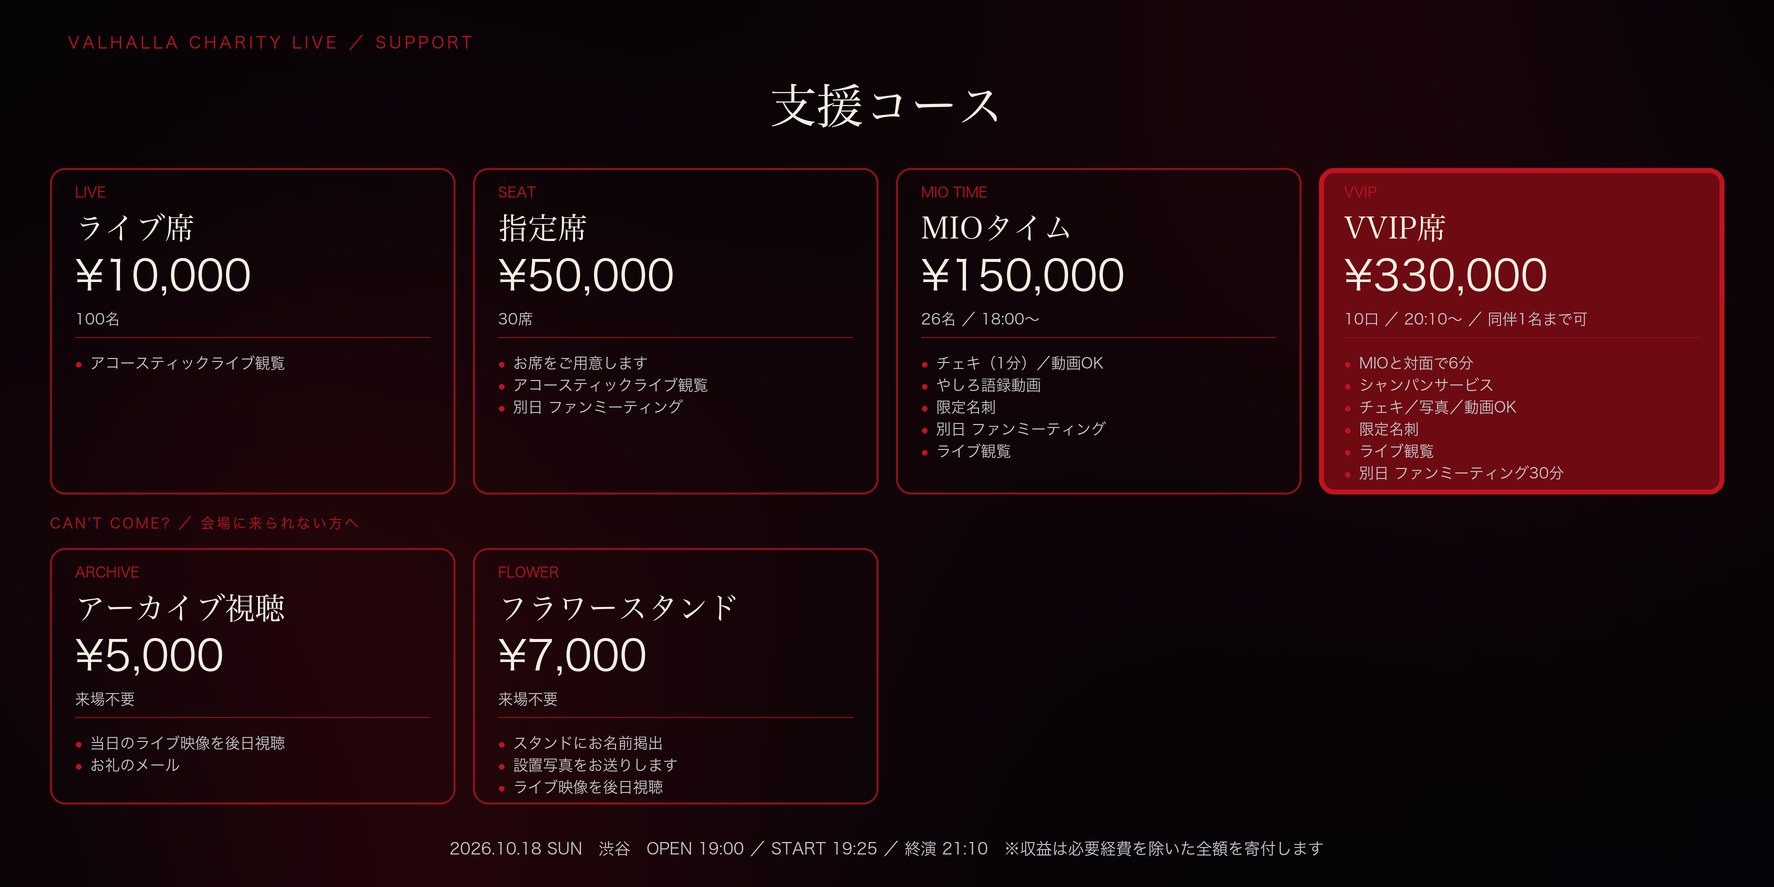
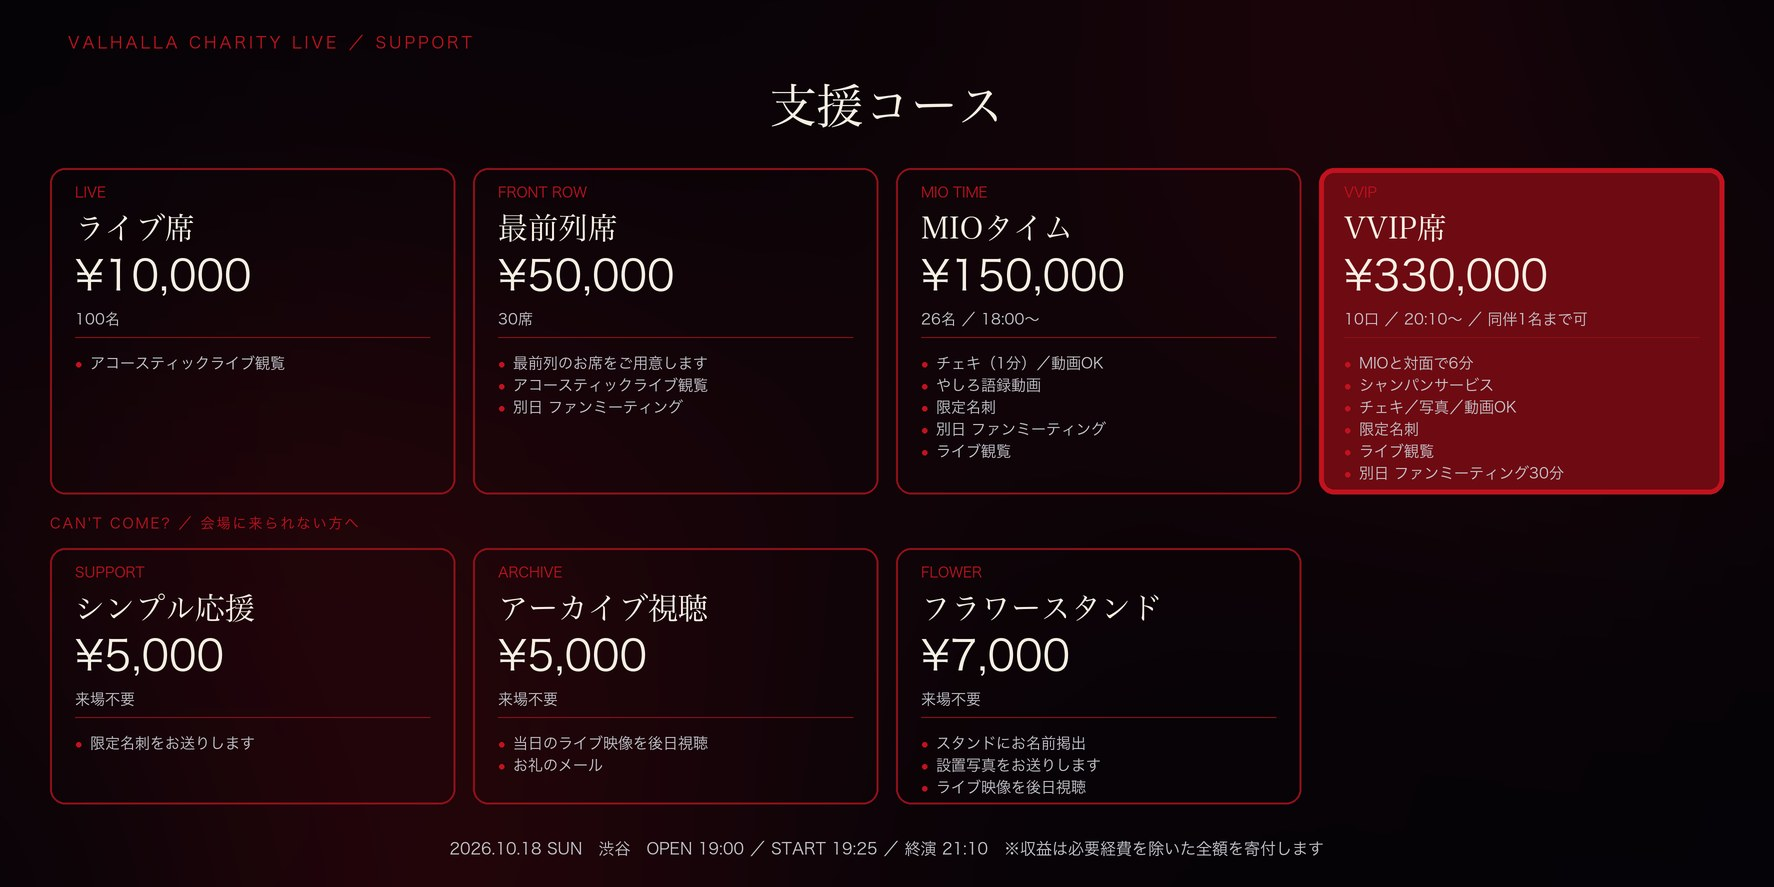
charity: make the 50,000 tier front row and open a 5,000 support plan
The 50,000 seats are the front row, so they say so. Alongside them sits
a new 5,000円 シンプル応援 whose return is the 限定名刺 in the post.

That plan lands on two problems worth deciding before launch: it shares
its price with アーカイブ視聴, and the 限定名刺 it sends is also what
MIOタイム and VVIP list among their perks. Both are written up with the
ways out. The 来場不要 courses now also appear in the page body itself,
where only the banner had carried them.

diff --git a/charity.html b/charity.html
@@ -535,6 +535,16 @@
   <div class="ret">
 
     <div class="r">
+      <div class="rn">シンプル応援</div>
+      <div class="rp">¥5,000</div>
+      <div class="lim">来場不要 ／ 人数制限なし</div>
+      <ul>
+        <li>限定名刺をお送りします</li>
+      </ul>
+      <a class="pay-btn" data-pay="simple">このコースで支援する</a>
+    </div>
+
+    <div class="r">
       <div class="rn">アーカイブ視聴</div>
       <div class="rp">¥5,000</div>
       <div class="lim">来場不要 ／ 人数制限なし</div>
@@ -568,11 +578,12 @@
     </div>
 
     <div class="r">
-      <div class="rn">指定席</div>
+      <div class="rn">最前列席</div>
       <div class="rp">¥50,000</div>
       <div class="lim">30席</div>
       <ul>
-        <li>アコースティックライブ観覧（お席をご用意します）</li>
+        <li>最前列のお席をご用意します</li>
+        <li>アコースティックライブ観覧</li>
         <li>【別日】ファンミーティング（対面・30分のグループセッション）<span class="tbd">【2026年11月・日程調整中】</span></li>
       </ul>
       <a class="pay-btn" data-pay="seat">このコースで支援する</a>
@@ -722,7 +733,8 @@
     archive: "", // アーカイブ視聴
     flower:  "", // フラワースタンド
     live: "",   // ライブ席
-    seat: "",   // 指定席
+    simple: "", // シンプル応援
+    seat: "",   // 最前列席
     mio:  "",   // MIOタイム
     vvip: ""    // VVIP席
   };

diff --git a/assets/charity/create_returns_banner.py b/assets/charity/create_returns_banner.py
@@ -175,8 +175,8 @@ def add_cards(base: Image.Image) -> None:
     cards = (
         ("LIVE", "ライブ席", "¥10,000", "100名",
          ("アコースティックライブ観覧",)),
-        ("SEAT", "指定席", "¥50,000", "30席",
-         ("お席をご用意します", "アコースティックライブ観覧",
+        ("FRONT ROW", "最前列席", "¥50,000", "30席",
+         ("最前列のお席をご用意します", "アコースティックライブ観覧",
           "別日 ファンミーティング")),
         ("MIO TIME", "MIOタイム", "¥150,000", "26名 ／ 18:00〜",
          ("チェキ（1分）／動画OK", "やしろ語録動画", "限定名刺",
@@ -184,6 +184,8 @@ def add_cards(base: Image.Image) -> None:
         ("VVIP", "VVIP席", "¥330,000", "10口 ／ 20:10〜 ／ 同伴1名まで可",
          ("MIOと対面で6分", "シャンパンサービス", "チェキ／写真／動画OK", "限定名刺",
           "ライブ観覧", "別日 ファンミーティング30分")),
+        ("SUPPORT", "シンプル応援", "¥5,000", "来場不要",
+         ("限定名刺をお送りします",)),
         ("ARCHIVE", "アーカイブ視聴", "¥5,000", "来場不要",
          ("当日のライブ映像を後日視聴", "お礼のメール")),
         ("FLOWER", "フラワースタンド", "¥7,000", "来場不要",
